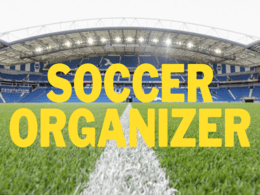
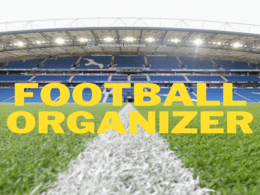
update: adding practical email project

diff --git a/index.html b/index.html
@@ -87,10 +87,6 @@
                     <p>
                         Those are some of the projects i've made in the last
                         months.
-                        <br>
-                        I've applied various technologies as HTML, CSS,
-                        JS, REACT and REDUX for the front-end, and NodeJs and
-                        ExpressJs for the back-end.
                     </p>
                     <section>
                         <div class="row">
@@ -103,18 +99,18 @@
                                         src="thumbnails/soccer.png"
                                         alt=""
                                 /></a>
-                                <b>Soccer Match Organizer (React, Node, Express, MongoDB)</b>
+                                <b>Football Match Organizer (React, Node, Express, MongoDB)</b>
                             </div>
                             <div class="col-4 col-6-medium col-12-small">
-                                <a href="#" class="image fit"
-                                    ><img src="images/pic07.jpg" alt=""
+                                <a
+                                    href="https://practical-email-landing.vercel.app/"
+                                    target="_blank"
+                                    class="image fit"
+                                    ><img
+                                        src="thumbnails/practical-email.png"
+                                        alt=""
                                 /></a>
-                                <b>Space for a new project</b>
-                            </div>
-                            <div class="col-4 col-6-medium col-12-small">
-                                <a href="#" class="image fit"
-                                    ><img src="images/pic08.jpg" alt="" /></a
-                                ><b>Space for a new project</b>
+                                <b>Practical Email<br>(Node, Express)</b>
                             </div>
                             <div class="col-4 col-6-medium col-12-small">
                                 <a href="#" class="image fit"
@@ -123,12 +119,17 @@
                             </div>
                             <div class="col-4 col-6-medium col-12-small">
                                 <a href="#" class="image fit"
-                                    ><img src="images/pic09.jpg" alt="" /></a
+                                    ><img src="images/pic10.jpg" alt="" /></a
                                 ><b>Space for a new project</b>
                             </div>
                             <div class="col-4 col-6-medium col-12-small">
                                 <a href="#" class="image fit"
-                                    ><img src="images/pic09.jpg" alt="" /></a
+                                    ><img src="images/pic11.jpg" alt="" /></a
+                                ><b>Space for a new project</b>
+                            </div>
+                            <div class="col-4 col-6-medium col-12-small">
+                                <a href="#" class="image fit"
+                                    ><img src="images/pic12.jpg" alt="" /></a
                                 ><b>Space for a new project</b>
                             </div>
                         </div>
